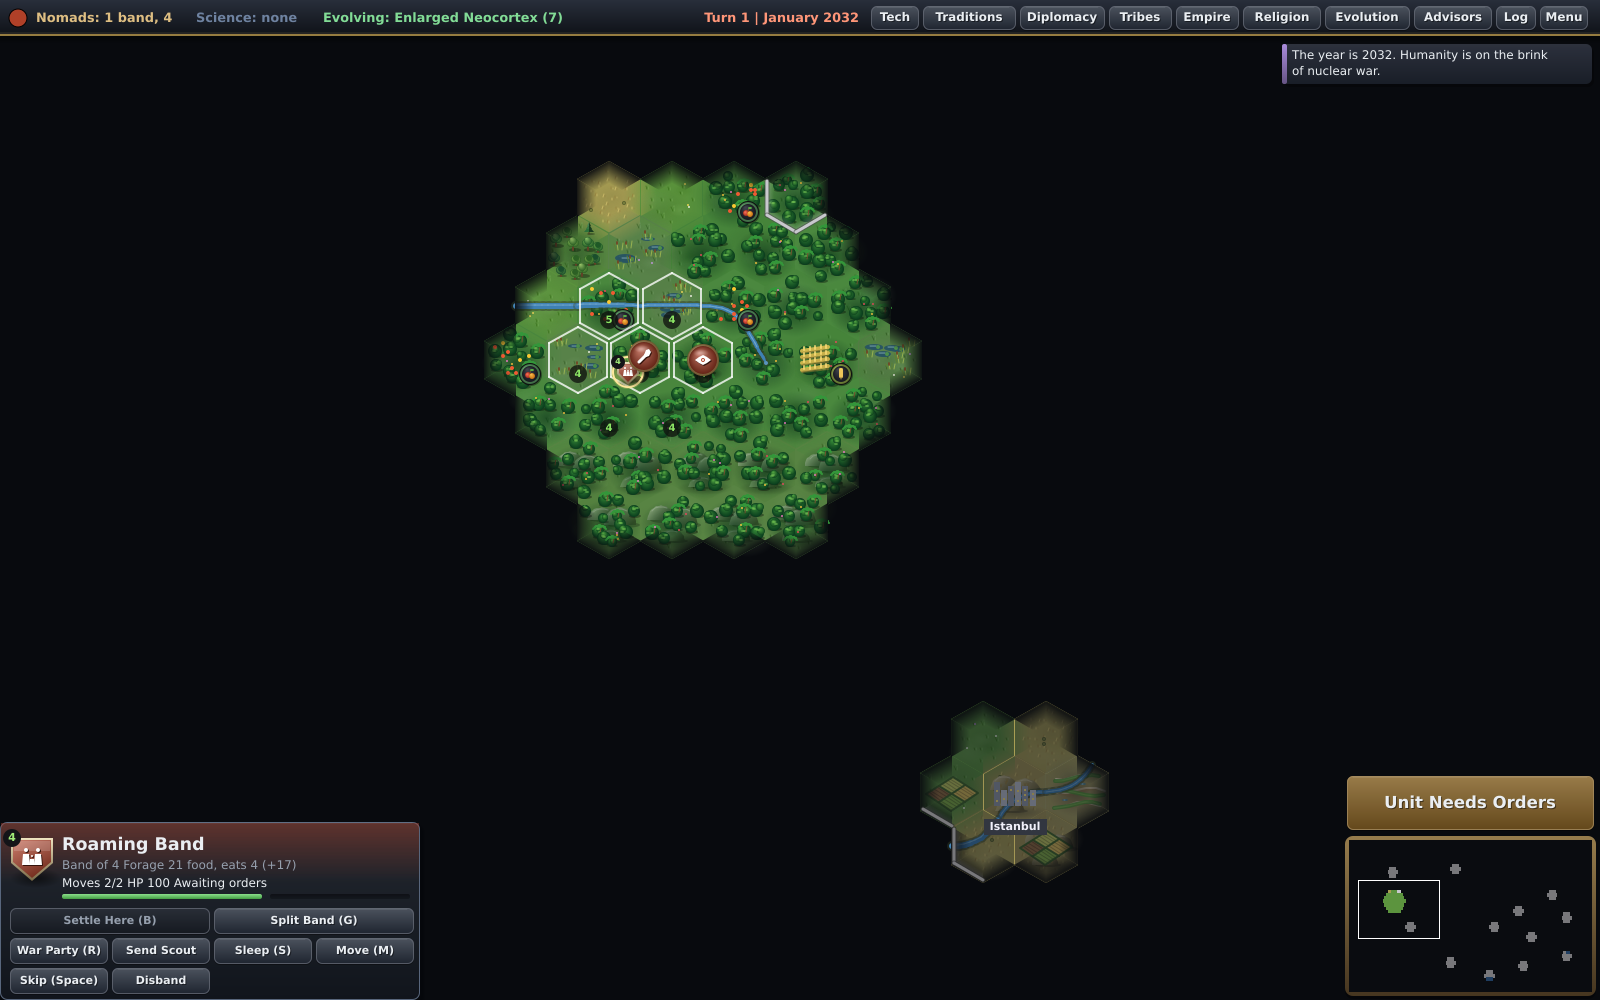
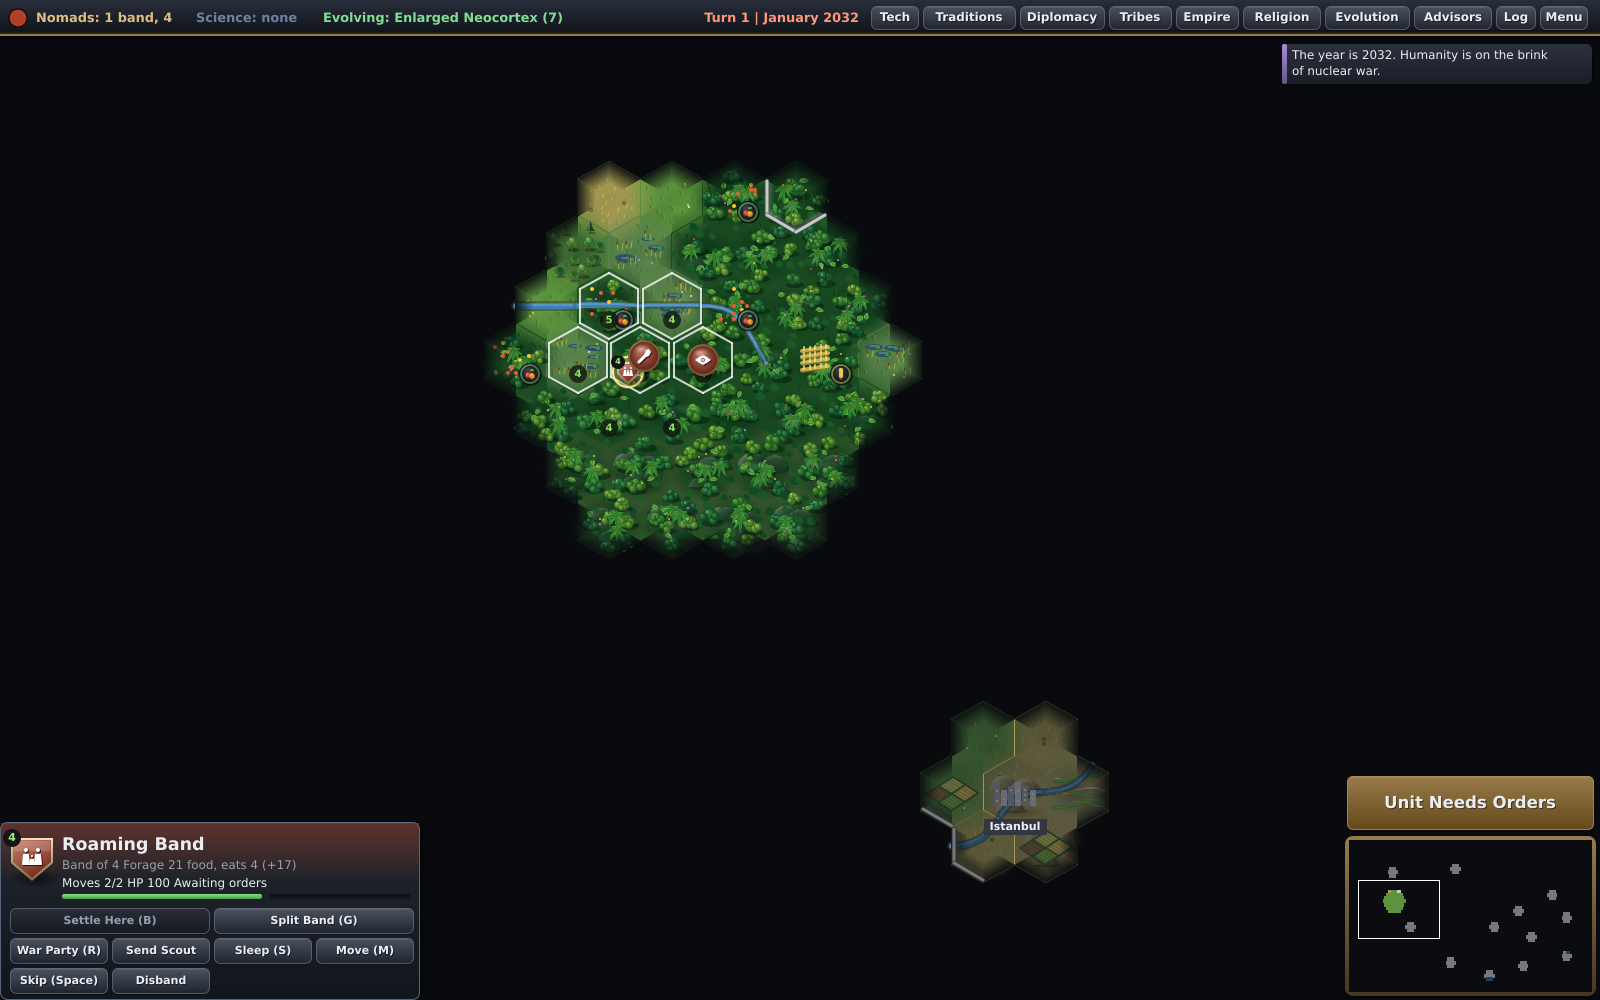
Rainforest jungle art (0.27.1)
Claude-Session: https://claude.ai/code/session_0122f3TemfsDeFULegBrgGm5

Changed region(s): [[0.3125, 0.155, 0.5625, 0.558]]

diff --git a/src/ui/UITerrain.cpp b/src/ui/UITerrain.cpp
@@ -266,7 +266,7 @@ void GameUI::drawForest(int x, int y, int sx, int sy) {
     // the shade of the forest floor gives the canopy its mass
     cv->glowEllipse(TX(0), TY(0.1), (int)(u * 0.85), (int)(u * 0.7), cold ? rgb(30, 60, 50) : rgb(26, 66, 30), 120);
     int cells = hs >= 44 ? 5 : hs >= 28 ? 4 : 3;
-    auto pts = scatter(r, cells, 0.8);
+    auto pts = scatter(r, cells, 0.88);
     if (t.imp == IMP_LUMBER)  // the camp's clearing
         pts.erase(std::remove_if(pts.begin(), pts.end(), [](const FPt& p) { return p.x < 0.05 && p.y > 0.0; }), pts.end());
     std::sort(pts.begin(), pts.end(), [](const FPt& a, const FPt& b) { return a.y < b.y; });
@@ -306,48 +306,111 @@ void GameUI::drawForest(int x, int y, int sx, int sy) {
     }
 }
 
-// ------------------------------------------------------------ jungle: dense, dark, broad-leaved, palms through the roof
+// ------------------------------------------------------------ jungle: a closed, layered rainforest canopy
+// A leaf seen from above: from its stalk at (bx, by) out along angle a, drooping under its own weight.
+static void leaf(Canvas* cv, int bx, int by, double a, double len, double wid, double droop, Color c, Color rib) {
+    double ca = std::cos(a), sa = std::sin(a), nx = -sa, ny = ca;
+    auto at = [&](double f, double side, int& ox, int& oy) {
+        ox = bx + (int)std::lround(ca * len * f + nx * side);
+        oy = by + (int)std::lround(sa * len * f + ny * side + droop * f * f);
+    };
+    int xy[12];
+    at(0, 0, xy[0], xy[1]);
+    at(0.35, wid * 0.5, xy[2], xy[3]);
+    at(0.72, wid * 0.4, xy[4], xy[5]);
+    at(1.0, 0, xy[6], xy[7]);
+    at(0.72, -wid * 0.4, xy[8], xy[9]);
+    at(0.35, -wid * 0.5, xy[10], xy[11]);
+    cv->fillPoly(xy, 6, c);
+    if (len > 8) {
+        int m1x, m1y, m2x, m2y;
+        at(0.1, 0, m1x, m1y);
+        at(0.9, 0, m2x, m2y);
+        int mid[6] = {m1x, m1y, (m1x + m2x) / 2, (m1y + m2y) / 2 + (int)(droop * 0.2), m2x, m2y};
+        cv->polylineA(mid, 3, rib, 1, 160);
+    }
+}
+
 void GameUI::drawJungle(int x, int y, int sx, int sy) {
     double u = hs;
     TRng r(tileHash(x, y, 37));
-    cv->glowEllipse(TX(0), TY(0.1), (int)(u * 0.9), (int)(u * 0.75), rgb(6, 46, 22), 160);
+    // the canopy is closed: deep green shade over the whole tile, so no open ground shows through
+    cv->glowEllipse(TX(0), TY(0.05), (int)(u * 1.0), (int)(u * 0.88), rgb(10, 52, 24), 235);
     int cells = hs >= 40 ? 5 : hs >= 26 ? 4 : 3;
-    auto pts = scatter(r, cells, 0.82);
-    std::sort(pts.begin(), pts.end(), [](const FPt& a, const FPt& b) { return a.y < b.y; });
-    double scale = hs >= 26 ? 1.0 : 1.25;
-    int k = 0;
-    for (auto& p : pts) {
-        int tx = TX(p.x), ty = TY(p.y);
-        int R = (int)(u * r.range(0.16, 0.22) * scale);
-        cv->fillEllipseA(tx + R / 4, ty + R * 2 / 3, R, R / 3, rgb(0, 0, 0), 90);
-        // a heavy, glossy, lumpy crown
-        cv->fillCircleGrad(tx, ty - R / 4, R, rgb(56, 140, 56), 255, rgb(8, 58, 28), 255, tx - R / 3, ty - R * 3 / 4);
-        int bx2 = tx + (int)(r.range(-0.6, 0.6) * R), by2 = ty - (int)(r.range(0.4, 0.8) * R);
-        cv->fillCircleGrad(bx2, by2, R * 3 / 5, rgb(84, 168, 66), 255, rgb(14, 70, 30), 255, bx2 - R / 4, by2 - R / 3);
-        if (hs >= 26) {  // broad leaves catching the light
-            for (int l = 0; l < 2; l++) {
-                int lx = tx + (int)(r.range(-0.6, 0.6) * R), ly = ty - (int)(r.range(0.2, 0.8) * R);
-                cv->fillEllipseA(lx, ly, R / 3, R / 6, rgb(120, 196, 84), 150);
-            }
+    // the understorey: dark lumps of foliage filling every gap
+    for (auto& p : scatter(r, cells + 1, 0.95)) {
+        int bx = TX(p.x), by = TY(p.y), br = (int)(u * r.range(0.08, 0.12));
+        Color c = r.chance(0.5) ? rgb(18, 74, 32) : rgb(26, 88, 38);
+        cv->fillCircle(bx, by, br, c);
+        cv->fillCircle(bx + br * 2 / 3, by + br / 3, br * 3 / 4, c);
+    }
+    // the canopy: lumpy crowns of many shades, each a cluster of leafy domes lit from the upper left
+    static const Color LIT[5] = {{132, 186, 58}, {78, 162, 72}, {104, 176, 64}, {62, 142, 70}, {150, 196, 74}};
+    static const Color DEEP[5] = {{30, 84, 26}, {14, 70, 36}, {24, 80, 30}, {10, 62, 34}, {40, 92, 30}};
+    auto crowns = scatter(r, std::max(3, cells - 1), 0.84);
+    std::sort(crowns.begin(), crowns.end(), [](const FPt& a, const FPt& b) { return a.y < b.y; });
+    double scale = hs >= 26 ? 1.0 : 1.3;
+    for (auto& p : crowns) {
+        int cx = TX(p.x), cy = TY(p.y);
+        double R = u * r.range(0.22, 0.28) * scale;
+        int pal = (int)(r.next() % 5);
+        cv->fillEllipseA(cx + (int)(R * 0.3), cy + (int)(R * 0.6), (int)(R * 1.1), (int)(R * 0.45), rgb(0, 20, 8), 110);
+        int lobes = hs >= 30 ? 7 : 5;
+        for (int l = 0; l < lobes; l++) {
+            double a = r.range(0, 6.28), d = l == 0 ? 0 : R * r.range(0.5, 0.8);
+            int lx = cx + (int)(std::cos(a) * d), ly = cy + (int)(std::sin(a) * d * 0.7) - (l == 0 ? (int)(R * 0.2) : 0);
+            int lr = (int)(R * (l == 0 ? 0.7 : r.range(0.38, 0.52)));
+            cv->fillCircleGrad(lx, ly, std::max(2, lr), LIT[pal], 255, DEEP[pal], 255, lx - lr / 2, ly - lr * 2 / 3);
         }
-        if (k++ % 3 == 1 && hs >= 22) {  // a palm through the canopy
-            int px = tx + R / 3, py = ty - R;
-            cv->line(px, py + R, px + hs / 30, py, rgb(112, 82, 46), std::max(1, hs / 24));
-            for (int f = 0; f < 6; f++) {
-                double a = -3.0 + f * 0.55;
-                int ex = px + (int)(std::cos(a) * u * 0.2), ey = py + (int)(std::sin(a) * u * 0.11) + hs / 16;
-                int mx = (px + ex) / 2, my = std::min(py, ey) - hs / 30;
-                int fr[6] = {px, py, mx, my, ex, ey};
-                cv->polylineA(fr, 3, rgb(52, 150, 58), std::max(2, hs / 18), 255);
-            }
+        if (hs >= 34 && r.chance(0.5))  // glossy highlights on the top leaves
+            cv->fillCircleA(cx - (int)(R * 0.3), cy - (int)(R * 0.5), std::max(1, (int)(R * 0.18)), lighten(LIT[pal], 0.35f), 170);
+    }
+    // broad leaves - wild banana and elephant ear - spilling out between the crowns
+    if (hs >= 22) {
+        int n = hs >= 36 ? 4 : 2;
+        for (int k = 0; k < n; k++) {
+            double fx = r.range(-0.55, 0.55), fy = r.range(-0.45, 0.55);
+            if (!inHex(fx, fy, 0.78)) continue;
+            double a = r.range(-3.0, 0.2);
+            leaf(cv, TX(fx), TY(fy), a, u * r.range(0.22, 0.3), u * r.range(0.11, 0.15), u * 0.06, rgb(96, 172, 62), rgb(40, 100, 36));
         }
     }
-    if (hs >= 32)  // flowers in the green
+    // hanging vines
+    if (hs >= 34)
+        for (int k = 0; k < 3; k++) {
+            double fx = r.range(-0.5, 0.5), fy = r.range(-0.45, 0.25);
+            if (!inHex(fx, fy, 0.7)) continue;
+            int vx = TX(fx), vy = TY(fy), len = (int)(u * r.range(0.15, 0.25));
+            int v[6] = {vx, vy, vx + len / 4, vy + len / 2, vx - len / 8, vy + len};
+            cv->polylineA(v, 3, rgb(30, 70, 24), std::max(1, hs / 34), 200);
+        }
+    // palms breaking through the roof of the forest, fronds drooping
+    if (hs >= 20) {
+        int palms = hs >= 30 ? 2 : 1;
+        for (int k = 0; k < palms; k++) {
+            double fx = r.range(-0.45, 0.45), fy = r.range(-0.4, 0.3);
+            if (!inHex(fx, fy, 0.7)) { fx *= 0.5; fy *= 0.5; }
+            int px = TX(fx), py = TY(fy);
+            int lean = (int)(u * r.range(-0.06, 0.06));
+            int tr[6] = {px, py + (int)(u * 0.2), px + lean / 2, py + (int)(u * 0.08), px + lean, py};
+            cv->polylineA(tr, 3, rgb(118, 92, 58), std::max(2, hs / 18), 255);
+            int fronds = hs >= 34 ? 8 : 6;
+            double L = u * (hs >= 30 ? 0.27 : 0.32);
+            for (int f = 0; f < fronds; f++) {
+                double a = -3.14159 + f * (6.28318 / fronds) + r.range(-0.15, 0.15);
+                leaf(cv, px + lean, py, a, L, L * 0.32, L * 0.45, f % 2 ? rgb(70, 160, 58) : rgb(52, 138, 50), rgb(30, 86, 30));
+            }
+            cv->fillCircle(px + lean, py + hs / 40, std::max(1, hs / 26), rgb(120, 86, 40));  // coconuts
+        }
+    }
+    if (hs >= 32) {  // flowers, and the humid haze of the rainforest
         for (int f = 0; f < 3; f++) {
             double fx = r.range(-0.5, 0.5), fy = r.range(-0.5, 0.5);
             static const Color FL[3] = {{236, 70, 90}, {250, 190, 60}, {240, 120, 200}};
             if (inHex(fx, fy, 0.75)) cv->fillCircleA(TX(fx), TY(fy), std::max(1, hs / 26), FL[r.next() % 3], 230);
         }
+        cv->glowEllipse(TX(r.range(-0.3, 0.3)), TY(r.range(-0.2, 0.3)), (int)(u * 0.5), (int)(u * 0.18), rgb(230, 240, 235), 26);
+    }
 }
 
 // ------------------------------------------------------------ floodplains and marshes

diff --git a/src/ui/UIMap.cpp b/src/ui/UIMap.cpp
@@ -101,8 +101,8 @@ Color GameUI::groundColor(int x, int y) const {
     int v = (int)(h % 9) - 4;
     if (water) v /= 4;  // the sea is one body of water, not a honeycomb
     base = rgb(base.r + v, base.g + v, base.b + v);
-    if (t.veg == V_FOREST) base = blend(base, rgb(70, 110, 58), 0.35f);
-    if (t.veg == V_JUNGLE) base = blend(base, rgb(50, 118, 60), 0.45f);
+    if (t.veg == V_FOREST) base = blend(base, rgb(54, 94, 46), 0.5f);   // the shaded forest floor
+    if (t.veg == V_JUNGLE) base = blend(base, rgb(16, 62, 28), 0.85f);  // under a closed canopy
     if (t.hills) base = blend(base, rgb(140, 118, 84), 0.20f);
     if (t.mountain) base = blend(base, rgb(122 + v, 114 + v, 104 + v), 0.6f);
     if (t.fallout) base = blend(base, rgb(150, 168, 40), 0.16f * t.fallout);
